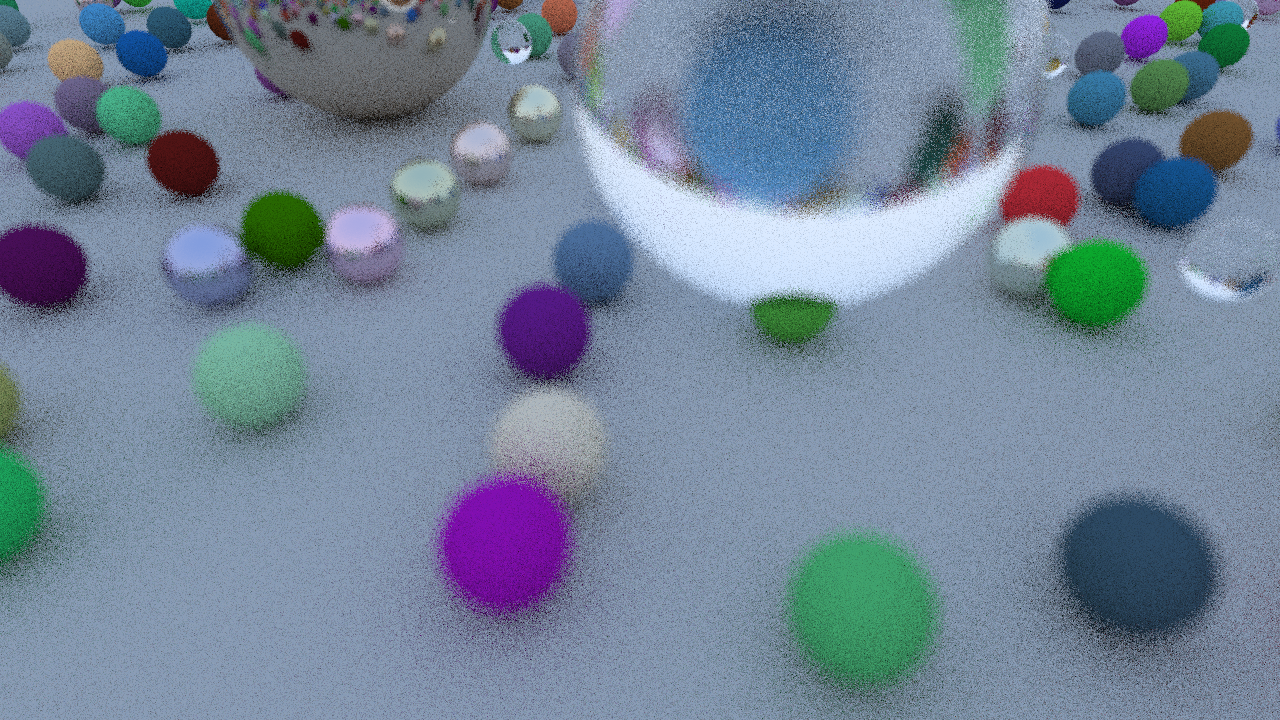
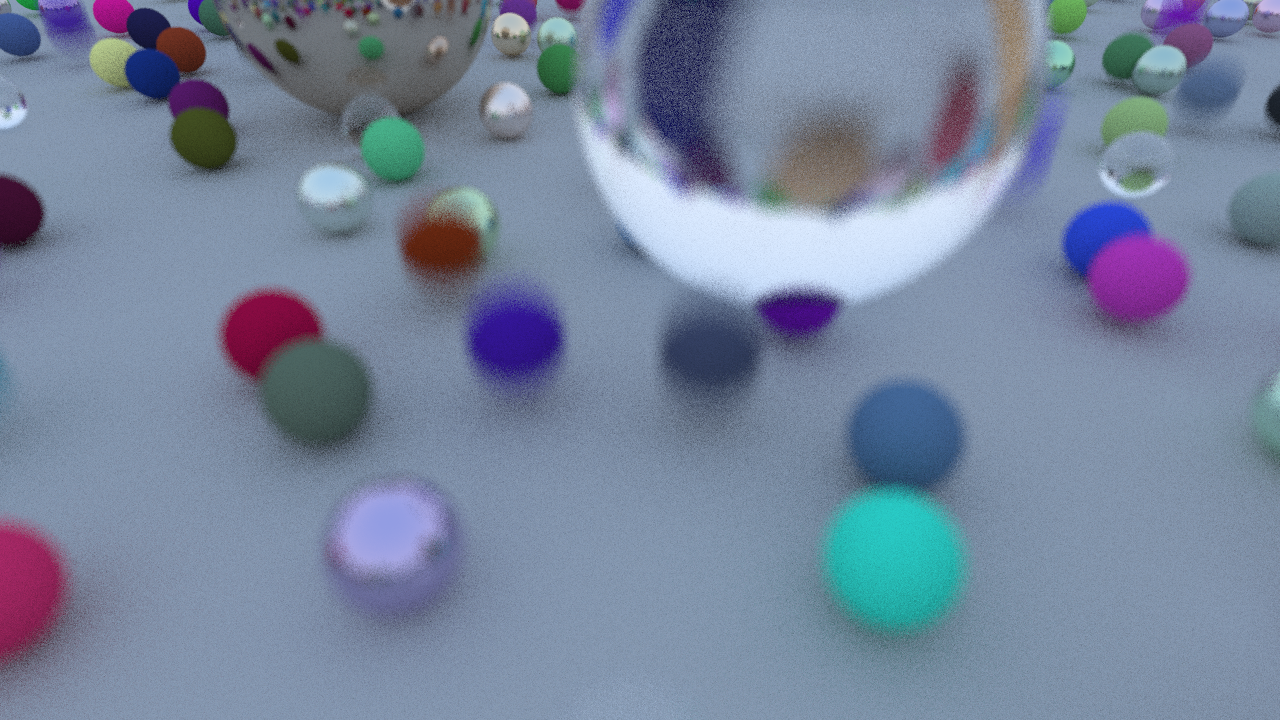
Updated README and example image

diff --git a/README.md b/README.md
@@ -30,11 +30,11 @@ PathTracerInOneWE.exe [-f **filename** -w **width** -h **height** -s **samples p
 
 Example command line and resulting output:
 ```
-PathTracerInOneWE.exe -s 5 -b 50 -fov 50 -cam -2 2 -3 -look 0 0 -1 -w 1280 -h 720
+PathTracerInOneWE.exe -s 30 -b 50 -fov 50 -cam -2 2 -3 -look 0 0 -1 -w 1280 -h 720
 ```
 ![Example Output](https://github.com/TaoSc/PathTracerInOneWE/raw/master/example.png)
 
-*Rendering time: 43s (Core i5-4440@3.30 GHz)*
+*Rendering time: 73s (Core i5-4440@3.30 GHz)*
 
 ## References
 My project uses stb_image_write.h to save the result image to png: 
